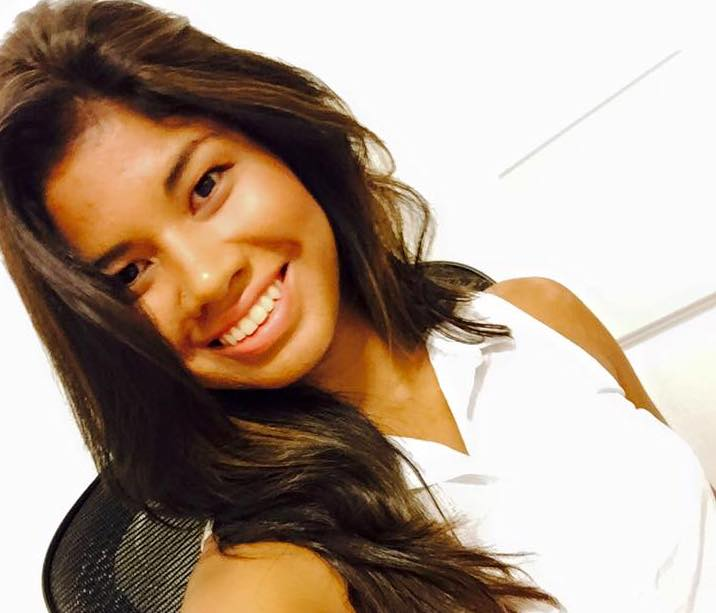
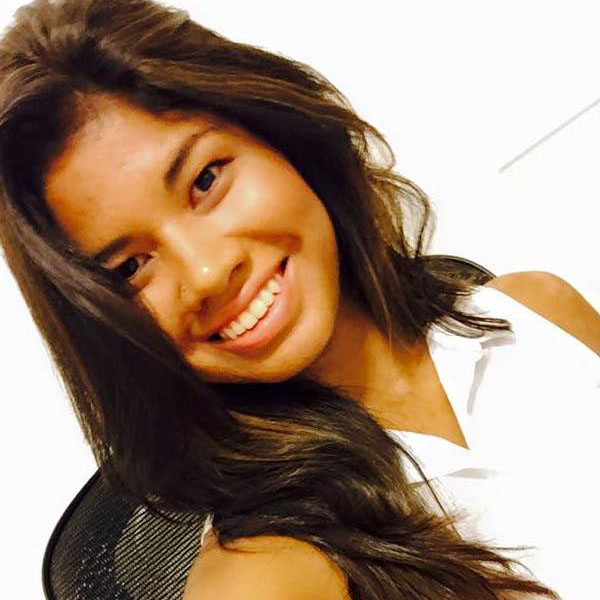
style: about page UI and content

diff --git a/client/components/AboutUs.js b/client/components/AboutUs.js
@@ -1,4 +1,5 @@
 import React, {Component} from 'react'
+import {Link} from 'react-router-dom'
 
 //Material UI
 import {withStyles} from '@material-ui/core/styles'
@@ -6,31 +7,57 @@ import Paper from '@material-ui/core/Paper'
 import Typography from '@material-ui/core/Typography'
 import Grid from '@material-ui/core/Grid'
 import Avatar from '@material-ui/core/Avatar'
+import Divider from '@material-ui/core/Divider'
+import List from '@material-ui/core/List'
+import ListItem from '@material-ui/core/ListItem'
+import ListItemText from '@material-ui/core/ListItemText'
+import ListItemIcon from '@material-ui/core/ListItemIcon'
+import Icon from '@material-ui/core/Icon'
 import Button from '@material-ui/core/Button'
 
 const styles = theme => ({
   root: {
-    ...theme.mixins.gutters(),
     flexGrow: 1,
     padding: theme.spacing.unit * 4,
     marginTop: theme.spacing.unit * 16,
-    marginLeft: theme.spacing.unit * 24,
-    marginRight: theme.spacing.unit * 24
+    marginLeft: 'auto',
+    marginRight: 'auto',
+    width: '95%',
+    // md = 960px or larger
+    [theme.breakpoints.up('md')]: {
+      width: '70%',
+      padding: theme.spacing.unit * 8
+    },
+    color: '#fff'
   },
   userInfo: {
     textAlign: 'center'
   },
   bigAvatar: {
-    width: 200,
-    height: 200,
+    width: '100%',
+    height: '100%',
+    maxWidth: 200,
+    maxHeight: 200,
     marginTop: theme.spacing.unit * 4,
     marginBottom: theme.spacing.unit * 4,
     marginRight: 'auto',
     marginLeft: 'auto'
   },
-  userEmail: {
-    fontWeight: 300,
-    fontSize: '18px'
+  link: {
+    color: '#fff',
+    '&:hover': {
+      color: '#C6FF00'
+    }
+  },
+  about: {
+    marginTop: theme.spacing.unit * 3,
+    marginBottom: theme.spacing.unit * 6,
+    fontSize: '1.25rem',
+    lineHeight: '1.875rem'
+  },
+  team: {
+    marginTop: theme.spacing.unit * 2,
+    marginBottom: theme.spacing.unit * 6
   }
 })
 
@@ -39,19 +66,51 @@ class AboutUs extends Component {
     const {classes} = this.props
     return (
       <Paper className={classes.root} elevation={2}>
-        <Typography variant="h6" component="h6">
-          Our goal is to help you organize your reading life
+        <Typography variant="h4" component="h4" gutterBottom>
+          Manage Your Book Clubs
         </Typography>
-        <br />
-        <Typography variant="h4" component="h4">
+        <Divider />
+        <div className={classes.about}>
+          <Typography
+            variant="body1"
+            component="p"
+            gutterBottom
+            style={{
+              fontSize: '1.25rem',
+              lineHeight: '1.875rem',
+              marginBottom: '20px'
+            }}
+          >
+            Bookworms is an app for readers to create, manage, and communicate
+            with their book clubs. We consolidate everything related to your
+            book clubs in one place, and provide simple, easy-to-use tools for
+            organizing your reading life. With Bookworms, you can keep track of
+            books you've read and want to read, visualize your reading history
+            and progress, schedule meetings for book clubs you're in, chat with
+            other book club members, and create polls for your book clubs to
+            decide on what to read next, when to meet, and where to meet.
+          </Typography>
+          <Button
+            variant="contained"
+            href="https://github.com/lime-conure/bookworms"
+            color="primary"
+            size="large"
+          >
+            Github repo
+          </Button>
+        </div>
+
+        <Typography variant="h4" component="h4" gutterBottom>
           Our Team
         </Typography>
+        <Divider />
 
         <Grid
           container
           spacing={32}
           justify="space-between"
           alignItems="flex-start"
+          className={classes.team}
         >
           <Grid item md={3} className={classes.userInfo}>
             <Avatar
@@ -59,22 +118,19 @@ class AboutUs extends Component {
               src="Brynn_Shepherd.jpg"
               className={classes.bigAvatar}
             />
-          </Grid>
-
-          <Grid item md={3} className={classes.userInfo}>
-            <Avatar
-              alt="Jing Lu"
-              src="Jing_Lu.jpg"
-              className={classes.bigAvatar}
-            />
-          </Grid>
-
-          <Grid item md={3} className={classes.userInfo}>
-            <Avatar
-              alt="Norka Avalos"
-              src="Norka_Avalos.jpg"
-              className={classes.bigAvatar}
-            />
+            <Typography variant="h6" component="h6">
+              <a
+                href="http://github.com/brynn"
+                rel="noopener noreferrer"
+                target="_blank"
+                className={classes.link}
+              >
+                Brynn Shepherd
+              </a>
+            </Typography>
+            <Typography variant="subtitle1" component="p">
+              brynn.shepherd@gmail.com
+            </Typography>
           </Grid>
 
           <Grid item md={3} className={classes.userInfo}>
@@ -83,8 +139,159 @@ class AboutUs extends Component {
               src="Sabira_Davletshina.jpg"
               className={classes.bigAvatar}
             />
+            <Typography variant="h6" component="h6">
+              <a
+                href="http://github.com/Sdavletshina"
+                rel="noopener noreferrer"
+                target="_blank"
+                className={classes.link}
+              >
+                Sabira Davletshina
+              </a>
+            </Typography>
+            <Typography variant="subtitle1" component="p">
+              sabira.davletshina@gmail.com
+            </Typography>
+          </Grid>
+
+          <Grid item md={3} className={classes.userInfo}>
+            <Avatar
+              alt="Jing Lu"
+              src="Jing_Lu.jpg"
+              className={classes.bigAvatar}
+            />
+            <Typography variant="h6" component="h6">
+              <a
+                href="http://github.com/Jl201835"
+                rel="noopener noreferrer"
+                target="_blank"
+                className={classes.link}
+              >
+                Jing Lu
+              </a>
+            </Typography>
+            <Typography variant="subtitle1" component="p">
+              jl201835@gmail.com
+            </Typography>
+          </Grid>
+
+          <Grid item md={3} className={classes.userInfo}>
+            <Avatar
+              alt="Norka Avalos"
+              src="Norka_Avalos.jpg"
+              className={classes.bigAvatar}
+            />
+            <Typography variant="h6" component="h6">
+              <a
+                href="http://github.com/norkavalos"
+                rel="noopener noreferrer"
+                target="_blank"
+                className={classes.link}
+              >
+                Norka Avalos
+              </a>
+            </Typography>
+            <Typography variant="subtitle1" component="p">
+              norkaavalos11@gmail.com
+            </Typography>
           </Grid>
         </Grid>
+        <Typography variant="h4" component="h4" gutterBottom>
+          Technologies Used
+        </Typography>
+        <Divider />
+        <Typography
+          variant="body1"
+          component="p"
+          className={classes.about}
+          style={{marginBottom: '10px'}}
+        >
+          Bookworms runs on Heroku using Node.js, PostgreSQL/Sequelize,
+          Express.js, React, and Redux. We also integrated the following
+          libraries and APIs:
+        </Typography>
+        <List>
+          <ListItem className={classes.link}>
+            <ListItemIcon>
+              <Icon>collections_bookmarks</Icon>
+            </ListItemIcon>
+            <ListItemText>
+              <a
+                rel="noopener noreferrer"
+                target="_blank"
+                href="https://www.goodreads.com/api"
+              >
+                <Typography variant="body1" className={classes.link}>
+                  Goodreads API
+                </Typography>
+              </a>
+            </ListItemText>
+          </ListItem>
+          <ListItem className={classes.link}>
+            <ListItemIcon>
+              <Icon>timeline</Icon>
+            </ListItemIcon>
+            <ListItemText>
+              <a
+                rel="noopener noreferrer"
+                target="_blank"
+                href="http://recharts.org"
+              >
+                <Typography variant="body1" className={classes.link}>
+                  Recharts
+                </Typography>
+              </a>
+            </ListItemText>
+          </ListItem>
+          <ListItem className={classes.link}>
+            <ListItemIcon>
+              <Icon>notification_important</Icon>
+            </ListItemIcon>
+            <ListItemText>
+              <a
+                rel="noopener noreferrer"
+                target="_blank"
+                href="https://pushjs.org"
+              >
+                <Typography variant="body1" className={classes.link}>
+                  Push.js
+                </Typography>
+              </a>
+            </ListItemText>
+          </ListItem>
+          <ListItem className={classes.link}>
+            <ListItemIcon>
+              <Icon>chat</Icon>
+            </ListItemIcon>
+            <ListItemText>
+              <a
+                rel="noopener noreferrer"
+                target="_blank"
+                href="https://socket.io/"
+              >
+                <Typography variant="body1" className={classes.link}>
+                  Socket.io
+                </Typography>
+              </a>
+            </ListItemText>
+          </ListItem>
+          <ListItem className={classes.link}>
+            <ListItemIcon>
+              <Icon>dashboard</Icon>
+            </ListItemIcon>
+            <ListItemText>
+              <a
+                rel="noopener noreferrer"
+                target="_blank"
+                href="https://material-ui.com"
+              >
+                <Typography variant="body1" className={classes.link}>
+                  Material UI
+                </Typography>
+              </a>
+            </ListItemText>
+          </ListItem>
+        </List>
       </Paper>
     )
   }
